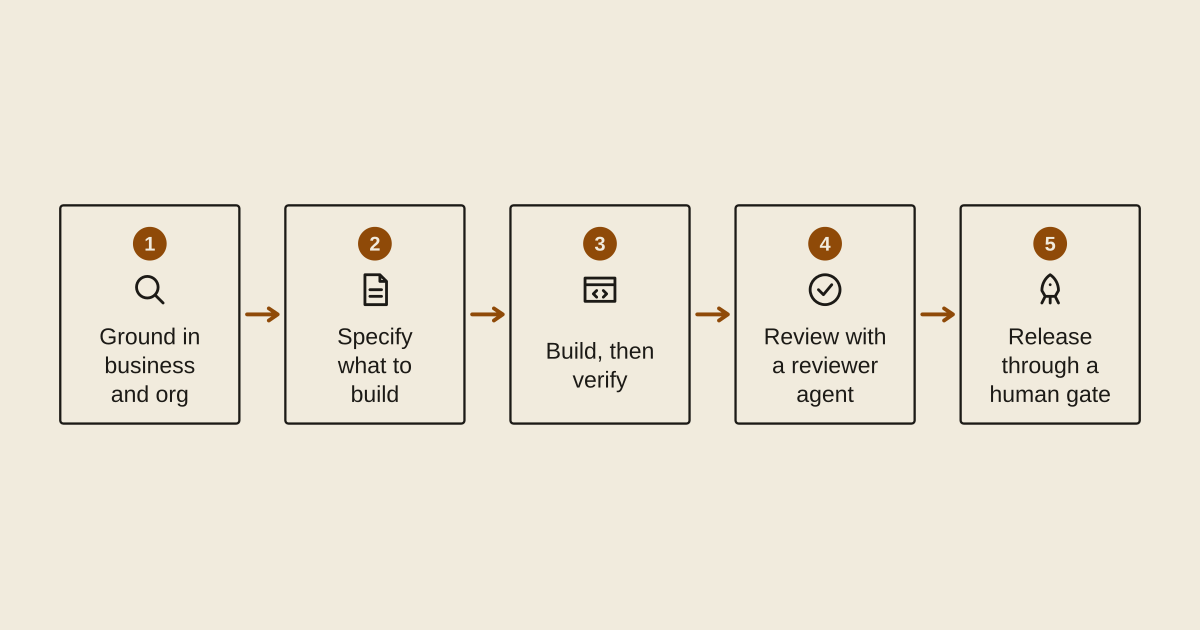
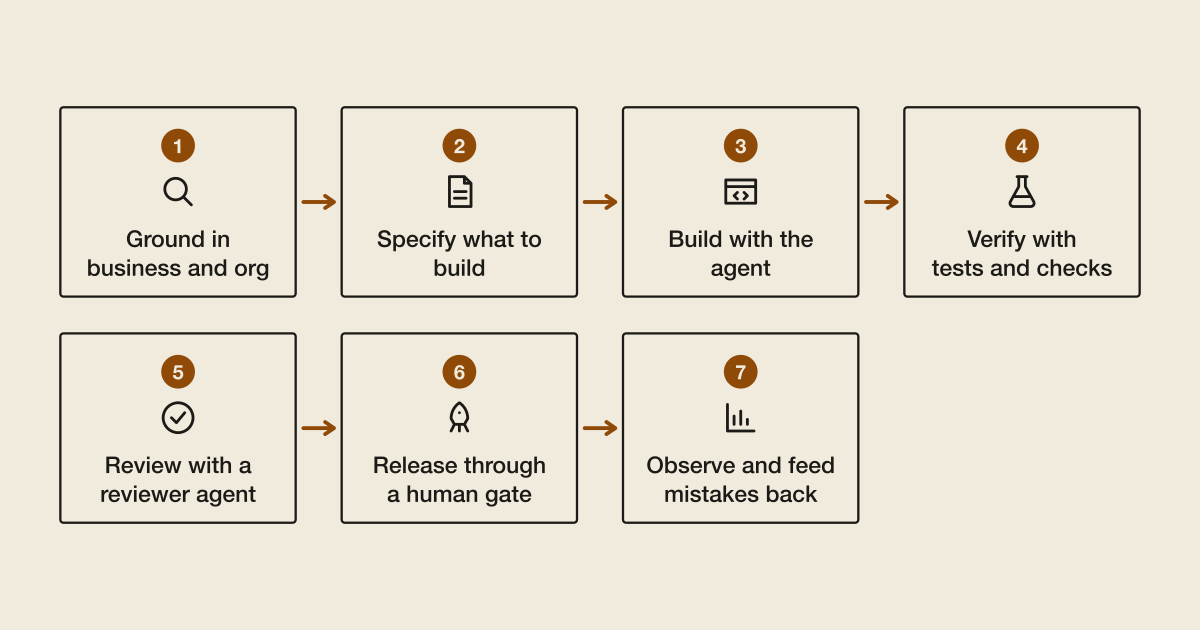
A process diagram holds up to seven steps, and its caption may not count more than it draws
A diagram of steps could hold five, so the model drew a seven-stage lifecycle as five boxes, merging build and verify and leaving out observe, under a caption that said seven. Now it may hold seven: with six or seven, the wide drawing runs onto a second row, the numbers keeping the order. The model is told never to merge or drop steps to fit, and a diagram whose caption counts its stages, steps or parts is refused unless the count is what is drawn.

The Headless Toolkit story of 11 November is drawn again with all seven stages, and its preview image with it.

diff --git a/pipeline/figure.ts b/pipeline/figure.ts
@@ -27,7 +27,7 @@ const Schema = figureSchema(z);
 export const diagramBrief = () => `The kinds of diagram:
 
 {"kind":"steps","caption":"...","steps":["...","..."]}
-  A process or sequence. 2 to 5 steps, in order, each at most ${LIMITS.step} characters.
+  A process or sequence. 2 to 7 steps, in order, each at most ${LIMITS.step} characters.
 
 {"kind":"compare","caption":"...","left":{"heading":"...","points":["...","..."]},"right":{"heading":"...","points":["...","..."]}}
   Two things set side by side: before and after, old and new, one approach against another. Headings at most ${LIMITS.heading} characters; 2 to 4 points a side, each at most ${LIMITS.point} characters.
@@ -48,6 +48,7 @@ Rules:
 - Labels are short noun or verb phrases, not sentences, with no full stop at the end.
 - The limits on length are exact, and spaces count. A label one character over is thrown away with the whole diagram, so write well inside each limit: ${LIMITS.step} characters is about six words, ${LIMITS.heading} about four.
 - "caption" is one plain sentence, at most ${LIMITS.caption} characters, saying what the diagram shows. Do not repeat the headline.
+- Never leave out or merge steps to fit the limit. If the article's process has more steps than "steps" allows, choose another kind, or "none". A caption that gives a count ("the seven stages") must match the steps or parts drawn.
 - Write the names of products and features exactly as the article does.
 - No markdown, no emoji, no quotation marks around labels.`;
 
@@ -119,6 +120,16 @@ export function checkFigure(value: unknown, story: FigureStory, paper: Paper = P
     for (const n of numbersIn(label)) if (!known.has(n)) throw new Error(`"${label}" has the number ${n}, which is not in the story`);
   }
   if (figure.kind === 'numbers' && figure.numbers.some((n) => !/\d/.test(n.value))) throw new Error('a figure in "numbers" has no number in it');
+  // A caption that counts the steps or parts must count those drawn: "the seven stages" over five boxes is wrong.
+  if (figure.kind === 'steps' || figure.kind === 'parts') {
+    const drawn = figure.kind === 'steps' ? figure.steps.length : figure.parts.length;
+    const WORDS = ['zero', 'one', 'two', 'three', 'four', 'five', 'six', 'seven', 'eight', 'nine', 'ten', 'eleven', 'twelve'];
+    const counted = figure.caption.toLowerCase().match(new RegExp(`\\b(\\d+|${WORDS.join('|')})[ -](?:[a-z-]+ )?(?:stages?|steps?|phases?|parts?|layers?|pieces?|components?)\\b`));
+    if (counted) {
+      const n = /^\d+$/.test(counted[1]) ? Number(counted[1]) : WORDS.indexOf(counted[1]);
+      if (n !== drawn) throw new Error(`the caption counts ${n} but the diagram has ${drawn}`);
+    }
+  }
   return figure;
 }
 

diff --git a/src/lib/diagram.ts b/src/lib/diagram.ts
@@ -100,8 +100,13 @@ function steps(figure: Extract<Drawn, { kind: 'steps' }>, layout: Layout, p: Pal
   const n = figure.steps.length;
   const ICON = 26;
   if (layout === 'wide') {
+    // Up to five steps on one row. More would leave each box too narrow to read, so they run onto a second
+    // row, as words run onto a second line: the numbers keep the order, and an arrow joins two on the same row.
+    const perRow = n <= 5 ? n : Math.ceil(n / 2);
+    const rows = Math.ceil(n / perRow);
     const gap = 30;
-    const w = (W - 2 * PAD - (n - 1) * gap) / n;
+    const rowGap = 24;
+    const w = (W - 2 * PAD - (perRow - 1) * gap) / perRow;
     const lines = figure.steps.map((step) => wrap(step, w - 20));
     const iconBand = pictures.some(Boolean) ? ICON + 10 : 0;
     const tallest = Math.max(...lines.map((l) => height(l)));
@@ -110,18 +115,20 @@ function steps(figure: Extract<Drawn, { kind: 'steps' }>, layout: Layout, p: Pal
       .map((_, i) => {
         // A short label sits in the middle of the room left for the tallest.
         const shorter = (tallest - height(lines[i])) / 2;
-        const x = PAD + i * (w + gap);
-        const top = PAD;
+        const row = Math.floor(i / perRow);
+        const x = PAD + (i % perRow) * (w + gap);
+        const top = PAD + row * (h + rowGap);
+        const nextOnRow = i < n - 1 && Math.floor((i + 1) / perRow) === row;
         return (
           box(x, top, w, h, p) +
           badge(x + w / 2, top + 14 + 11, i + 1, p) +
           icon(pictures[i], x + w / 2, top + 14 + 22 + 6 + ICON / 2, ICON, p.ink) +
           text(x + w / 2, top + 14 + 22 + iconBand + 4 + shorter, lines[i], p.ink) +
-          (i < n - 1 ? arrow(x + w + 5, top + h / 2, x + w + gap - 5, top + h / 2, p) : '')
+          (nextOnRow ? arrow(x + w + 5, top + h / 2, x + w + gap - 5, top + h / 2, p) : '')
         );
       })
       .join('');
-    return { body, height: h + 2 * PAD };
+    return { body, height: rows * h + (rows - 1) * rowGap + 2 * PAD };
   }
   const gap = 24;
   const w = W - 2 * PAD;

diff --git a/pipeline/figure.test.ts b/pipeline/figure.test.ts
@@ -5,7 +5,7 @@ import fs from 'node:fs';
 import os from 'node:os';
 import path from 'node:path';
 import sharp from 'sharp';
-import { addFigures, makeFigure as makeFigureFor, socialCard, validateFigure as validateFigureFor } from './figure';
+import { addFigures, checkFigure, makeFigure as makeFigureFor, socialCard, validateFigure as validateFigureFor } from './figure';
 import { LlmClient } from './llm';
 
 // The tests' own paper, not the one this project publishes.
@@ -175,4 +175,12 @@ test('every story gets a diagram, best first, and only the top one a social card
   assert.match(fs.readFileSync(path.join(dir, '01-story.md'), 'utf8'), /kind: steps/);
   assert.doesNotMatch(fs.readFileSync(path.join(dir, '06-story.md'), 'utf8'), /kind: steps/);
   assert.deepEqual(fs.readdirSync(path.join(places.figuresDir, '2026-10-04')), ['01-story.png']);
+});
+
+test('a caption that counts the steps must count those drawn', () => {
+  const story = { title: 'A lifecycle', summary: 'Seven stages.' };
+  const five = { kind: 'steps', caption: 'The seven stages of the lifecycle', steps: ['A step', 'B step', 'C step', 'D step', 'E step'] };
+  assert.throws(() => checkFigure(five, story), /counts 7 but the diagram has 5/);
+  assert.doesNotThrow(() => checkFigure({ ...five, caption: 'The five stages of the lifecycle' }, story));
+  assert.doesNotThrow(() => checkFigure({ ...five, caption: 'How the lifecycle runs' }, story));
 });

diff --git a/src/lib/diagram.test.ts b/src/lib/diagram.test.ts
@@ -43,3 +43,12 @@ test('labels wrap at spaces to fit their box, and text is escaped', () => {
   assert.deepEqual(wrap('Use ExperienceCloudSiteBuilder', 80), ['Use', 'Experien-', 'ceCloudS-', 'iteBuild-', 'er'], 'no line wider than its box');
   assert.ok(figureSvg({ kind: 'steps', caption: 'A & B', steps: ['<script>', 'x & y'] }, 'narrow').includes('&lt;script&gt;'));
 });
+
+test('more than five steps run onto a second row across, each still drawn and numbered', () => {
+  const seven = { kind: 'steps', caption: 'Seven stages', steps: ['Ground', 'Specify', 'Build', 'Verify', 'Review', 'Release', 'Observe'] } as Extract<Drawn, { kind: 'steps' }>;
+  const svg = figureSvg(seven, 'wide');
+  for (const step of seven.steps) assert.ok(drawnText(svg).includes(step), step);
+  assert.equal(svg.match(/<rect /g)?.length, 7);
+  const one = figureSvg({ ...seven, steps: seven.steps.slice(0, 5) }, 'wide');
+  assert.ok(Number(svg.match(/height="(\d+)"/)![1]) > Number(one.match(/height="(\d+)"/)![1]), 'two rows are taller than one');
+});

diff --git a/src/lib/figure.ts b/src/lib/figure.ts
@@ -20,7 +20,7 @@ export function figureSchema(z: typeof Zod) {
   return z.discriminatedUnion('kind', [
     // The model looked and found nothing worth drawing. Kept so the story is not asked about again.
     z.object({ kind: z.literal('none') }),
-    z.object({ kind: z.literal('steps'), caption, steps: z.array(text(LIMITS.step)).min(2).max(5), icons }),
+    z.object({ kind: z.literal('steps'), caption, steps: z.array(text(LIMITS.step)).min(2).max(7), icons }),
     z.object({ kind: z.literal('compare'), caption, left: side, right: side, icons }),
     z.object({
       kind: z.literal('numbers'),

diff --git a/src/content/stories/2026-11-11/05-sf-developers-accelerate-agent-driven-development-with-the-headless-toolki.md b/src/content/stories/2026-11-11/05-sf-developers-accelerate-agent-driven-development-with-the-headless-toolki.md
@@ -31,15 +31,19 @@ figure:
   steps:
     - Ground in business and org
     - Specify what to build
-    - Build, then verify
+    - Build with the agent
+    - Verify with tests and checks
     - Review with a reviewer agent
     - Release through a human gate
+    - Observe and feed mistakes back
   icons:
     - search
     - doc
     - code
+    - test
     - check
     - rocket
+    - chart
 figure_image: /figures/2026-11-11/05-sf-developers-accelerate-agent-driven-development-with-the-headless-toolki.png
 ---
 
